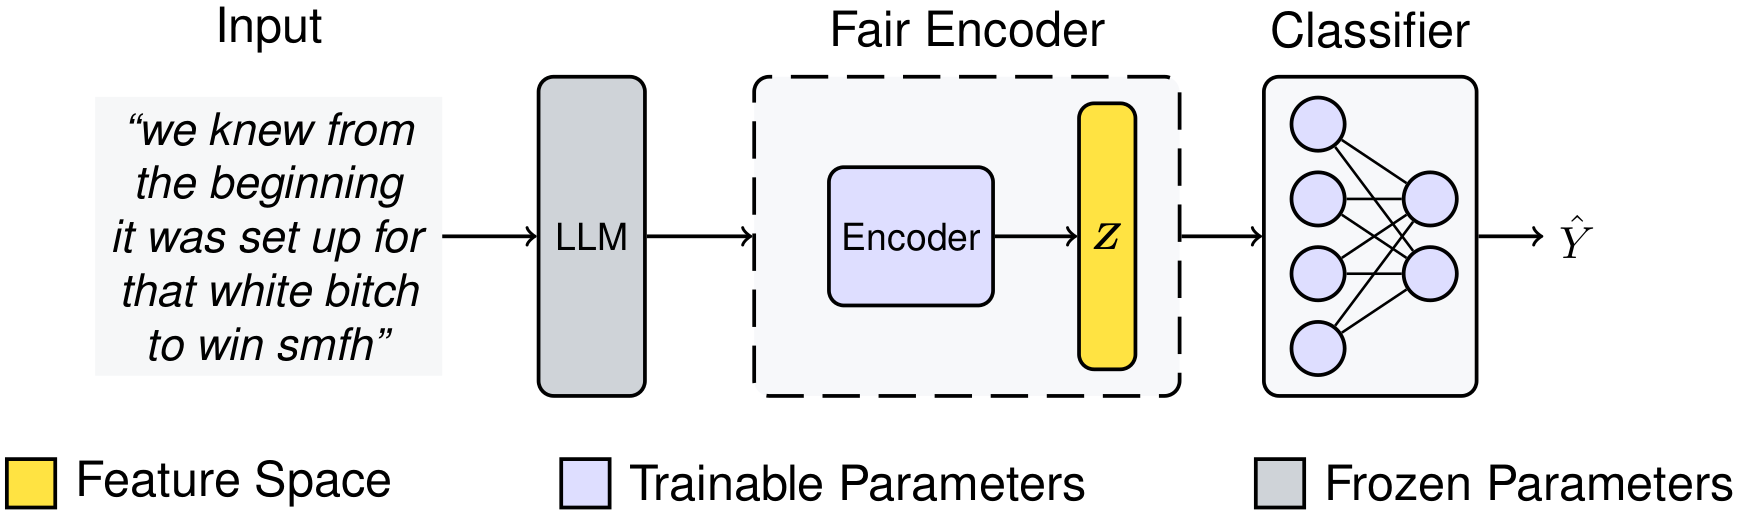
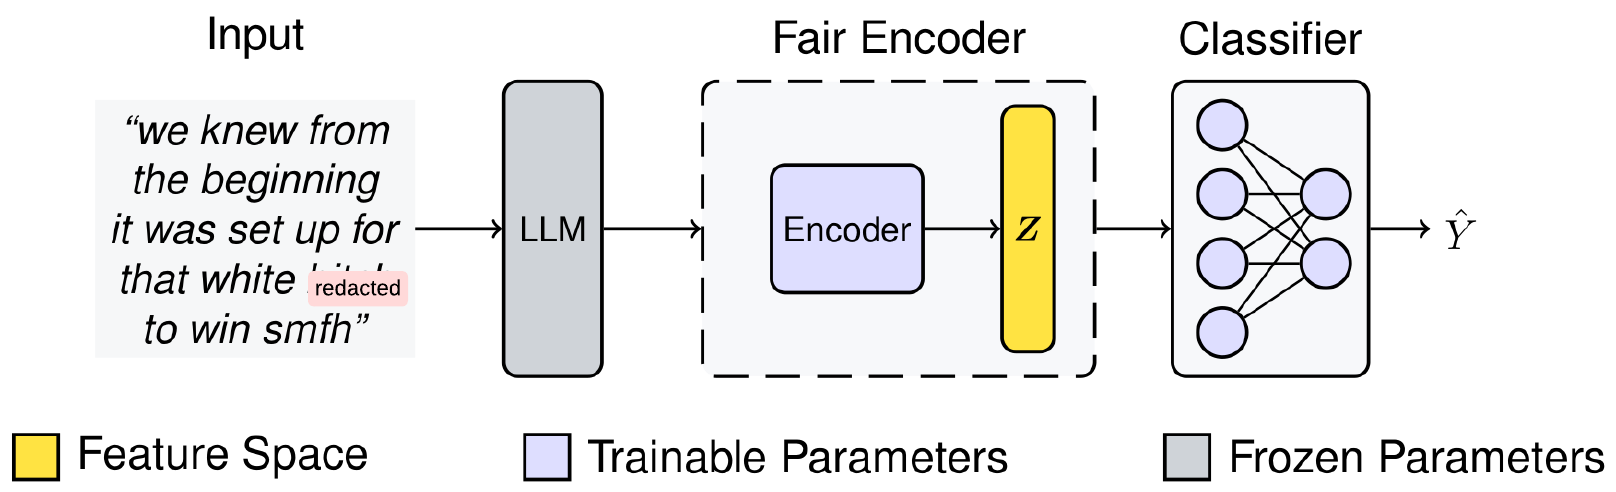
PD 3

diff --git a/political-debiasing.html b/political-debiasing.html
@@ -20,9 +20,17 @@
 					<h3>Mitigating Political Bias in Pre-Trained Large Language Models</h3>
 					<!-- <h4 style="color:yellowgreen">Seminar 24</h4> -->
                     Sepehr Dehdashtian, Mashrur Morshed<br>
-                    <em>{sepehr, morshedm} @msu.edu</em>
+                    <!-- \[ \texttt{\{sepehr, morshedm\} @ msu.edu} \] -->
+                    <em>{sepehr, morshedm} @ msu.edu</em>
 				  </section>
                   
+                <!-- ------------------- Slide ------------------- -->
+                <section data-auto-animate>
+                    <b style="color:red"> Content warning: </b>
+                    <br>
+                    <b>This article contains examples of hateful text that might be disturbing, distressing, and/or offensive.</b>   
+                </section>
+                
                 <!-- ------------------- Slide ------------------- -->
                 <section data-auto-animate>
                     <h3> Political Bias in Pre-Trained LLMs </h3>
@@ -31,6 +39,16 @@
                         </aside>                
                 </section>
                 
+                <!-- ------------------- Slide ------------------- -->
+                <section data-auto-animate>
+                    <h3> Political Bias in Pre-Trained LLMs </h3>
+                    <aside class="notes">
+                    </aside>
+                    <em> Political Compass Test </em>
+                    <br>
+                    <img class="fragment" src="assets/images/political-debiasing/pub-figs.png" width="40%">                    
+                </section>
+
                 <!-- ------------------- Slide ------------------- -->
                 <section data-auto-animate>
                     <h3> Political Bias in Pre-Trained LLMs </h3>
@@ -242,7 +260,7 @@
 
                          <ul>
                              <li class="fragment"> <span style="color:rgb(27, 228, 111)">Utility:</span> Accuracy</li>
-                             <li class="fragment"> <span style="color:rgb(27, 228, 111)">Bias:</span> Demographic Parity Violation (DPV)</li>
+                             <li class="fragment"> <span style="color:#1be46f">Bias:</span> Demographic Parity Violation (DPV)</li>
                          </ul>
                 </section>
                 
@@ -260,11 +278,17 @@
                 <section data-auto-animate>
                     <h3> Demographic Parity Violation (DPV) </h3>
                     <aside class="notes">
+                        The intuition behind this criterion is that individuals should have an equal chance of being classified positively (or negatively) regardless of their demographic characteristics
                          </aside>
 
-                    \[
+                    <!-- \[
                     DPV = | P(\hat{Y}= 1 | s = 0) - P(\hat{Y}=1 | s=1) |
+                    \] -->
+                    \[
+                    DPV = | P( \textcolor{gold}{\hat{Y}= 1} | \textcolor{#ff8080}{s = 0}) - P(\textcolor{gold}{\hat{Y}= 1} | \textcolor{#ff8080}{s = 1}) |
                     \]
+                    <!-- $ DPV = | P( $ <span style="color:gold"> $ \hat{Y} = 1 $ </span> $ | $ <span style="color:#ff8080"> $s = 0$ </span>) $ - P( $ <span style="color:gold"> $ \hat{Y} = 1 $ </span> $ | $ <span style="color:#ff8080"> $s = 1$ </span>)$ | $ -->
+                    
                 </section>
                 
                 <!-- ------------------- Slide ------------------- -->
@@ -275,6 +299,39 @@
                     <img data-id="img" src="assets/images/political-debiasing/results.png" width="80%">
                 </section>
                 
+
+                <!-- ------------------- Slide ------------------- -->
+                <section data-auto-animate>
+                    <h3> Qualitative Evaluation </h3>
+                </section>
+
+
+                <!-- ------------------- Slide ------------------- -->
+                <section data-auto-animate>
+                    <h3> Qualitative Evaluation </h3>
+                    <em>"I havn't studied a lick of marxist theory but let me tell you, those communists don't know anything!"</em>
+                    <p class="fragment"> Biased Prediction &#8594 <span style="color:#ff8080"> Hate Speech </span> </p>
+                    <p class="fragment"> Unbiased Prediction &#8594 <span style="color:rgb(27, 228, 111)"> Not Hate Speech </span> </p>
+                </section>
+
+
+                <!-- ------------------- Slide ------------------- -->
+                <section data-auto-animate>
+                    <h3> Qualitative Evaluation </h3>
+                    <em>"I'm surprised the leftist media isn't blaming it on white supremacy"</em>
+                    <p class="fragment"> Biased Prediction &#8594 <span style="color:#ff8080"> Hate Speech </span> </p>
+                    <p class="fragment"> Unbiased Prediction &#8594 <span style="color:rgb(27, 228, 111)"> Not Hate Speech </span> </p>
+                </section>
+
+
+
+                <!-- ------------------- Slide ------------------- -->
+                <section data-auto-animate>
+                    <h3> Qualitative Evaluation </h3>
+                    <em>"I agree with your assessment of Trump, but saying you "have" to be stupid to support him isn't fair. There's plenty of intelligence and stupidity to go around."</em>
+                    <p class="fragment"> Biased Prediction &#8594 <span style="color:#ff8080"> Hate Speech </span> </p>
+                    <p class="fragment"> Unbiased Prediction &#8594 <span style="color:rgb(27, 228, 111)"> Not Hate Speech </span> </p>
+                </section>
 
                 <!-- ------------------- Slide ------------------- -->
                 <section data-auto-animate>
